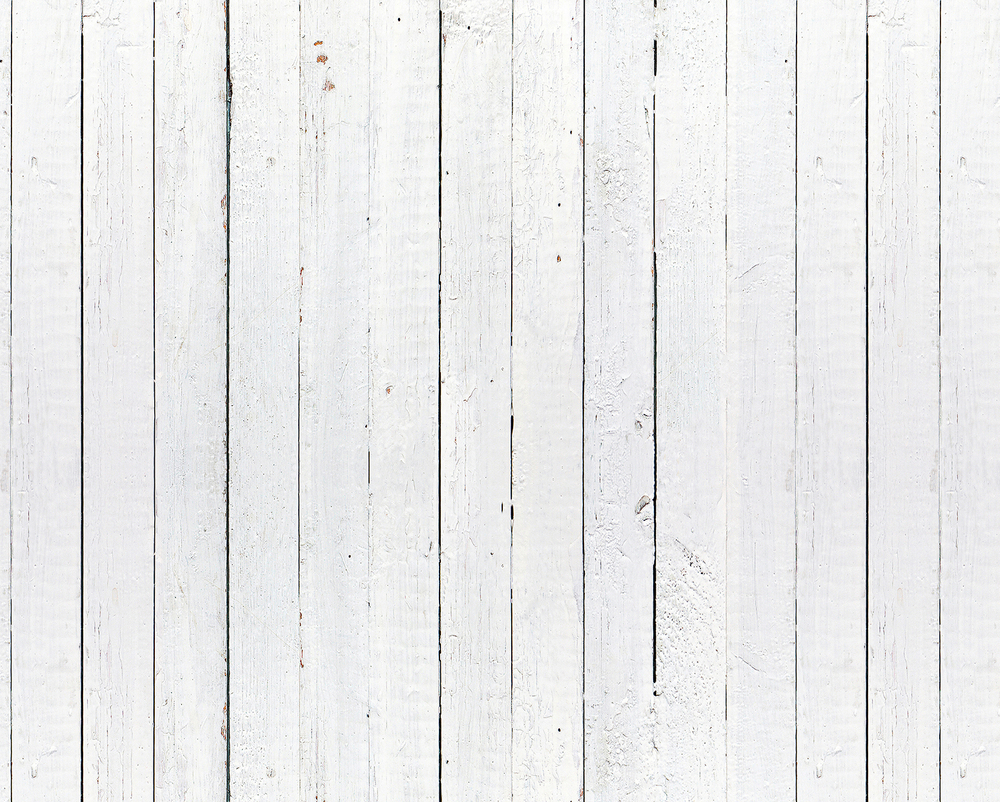
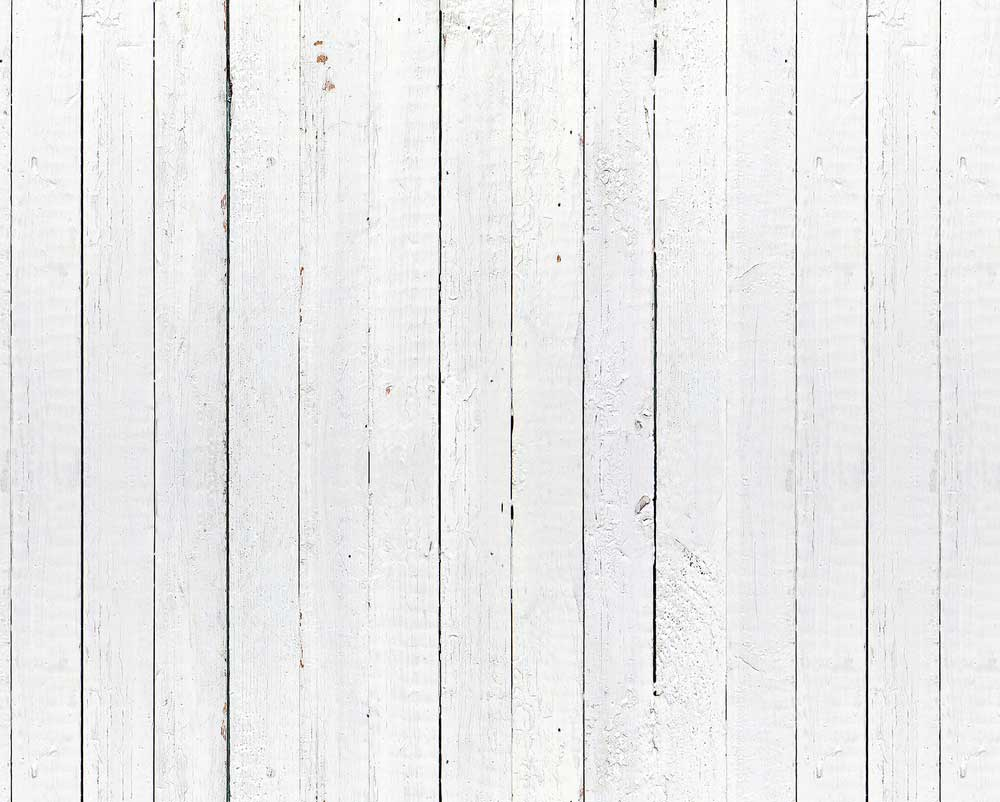
Using compressed versions of the pictures for faster loading times

diff --git a/index.html b/index.html
@@ -8,7 +8,7 @@
     <body>
         <center>
             <div id="logo_container">
-                <img id="logo" src="logo_final.jpg" />
+                <img id="logo" src="logo_final.svg" />
                 <h1 id="main">ICC McGill</h1>
                 <h2>Coming Soon </h2>
             </div>
